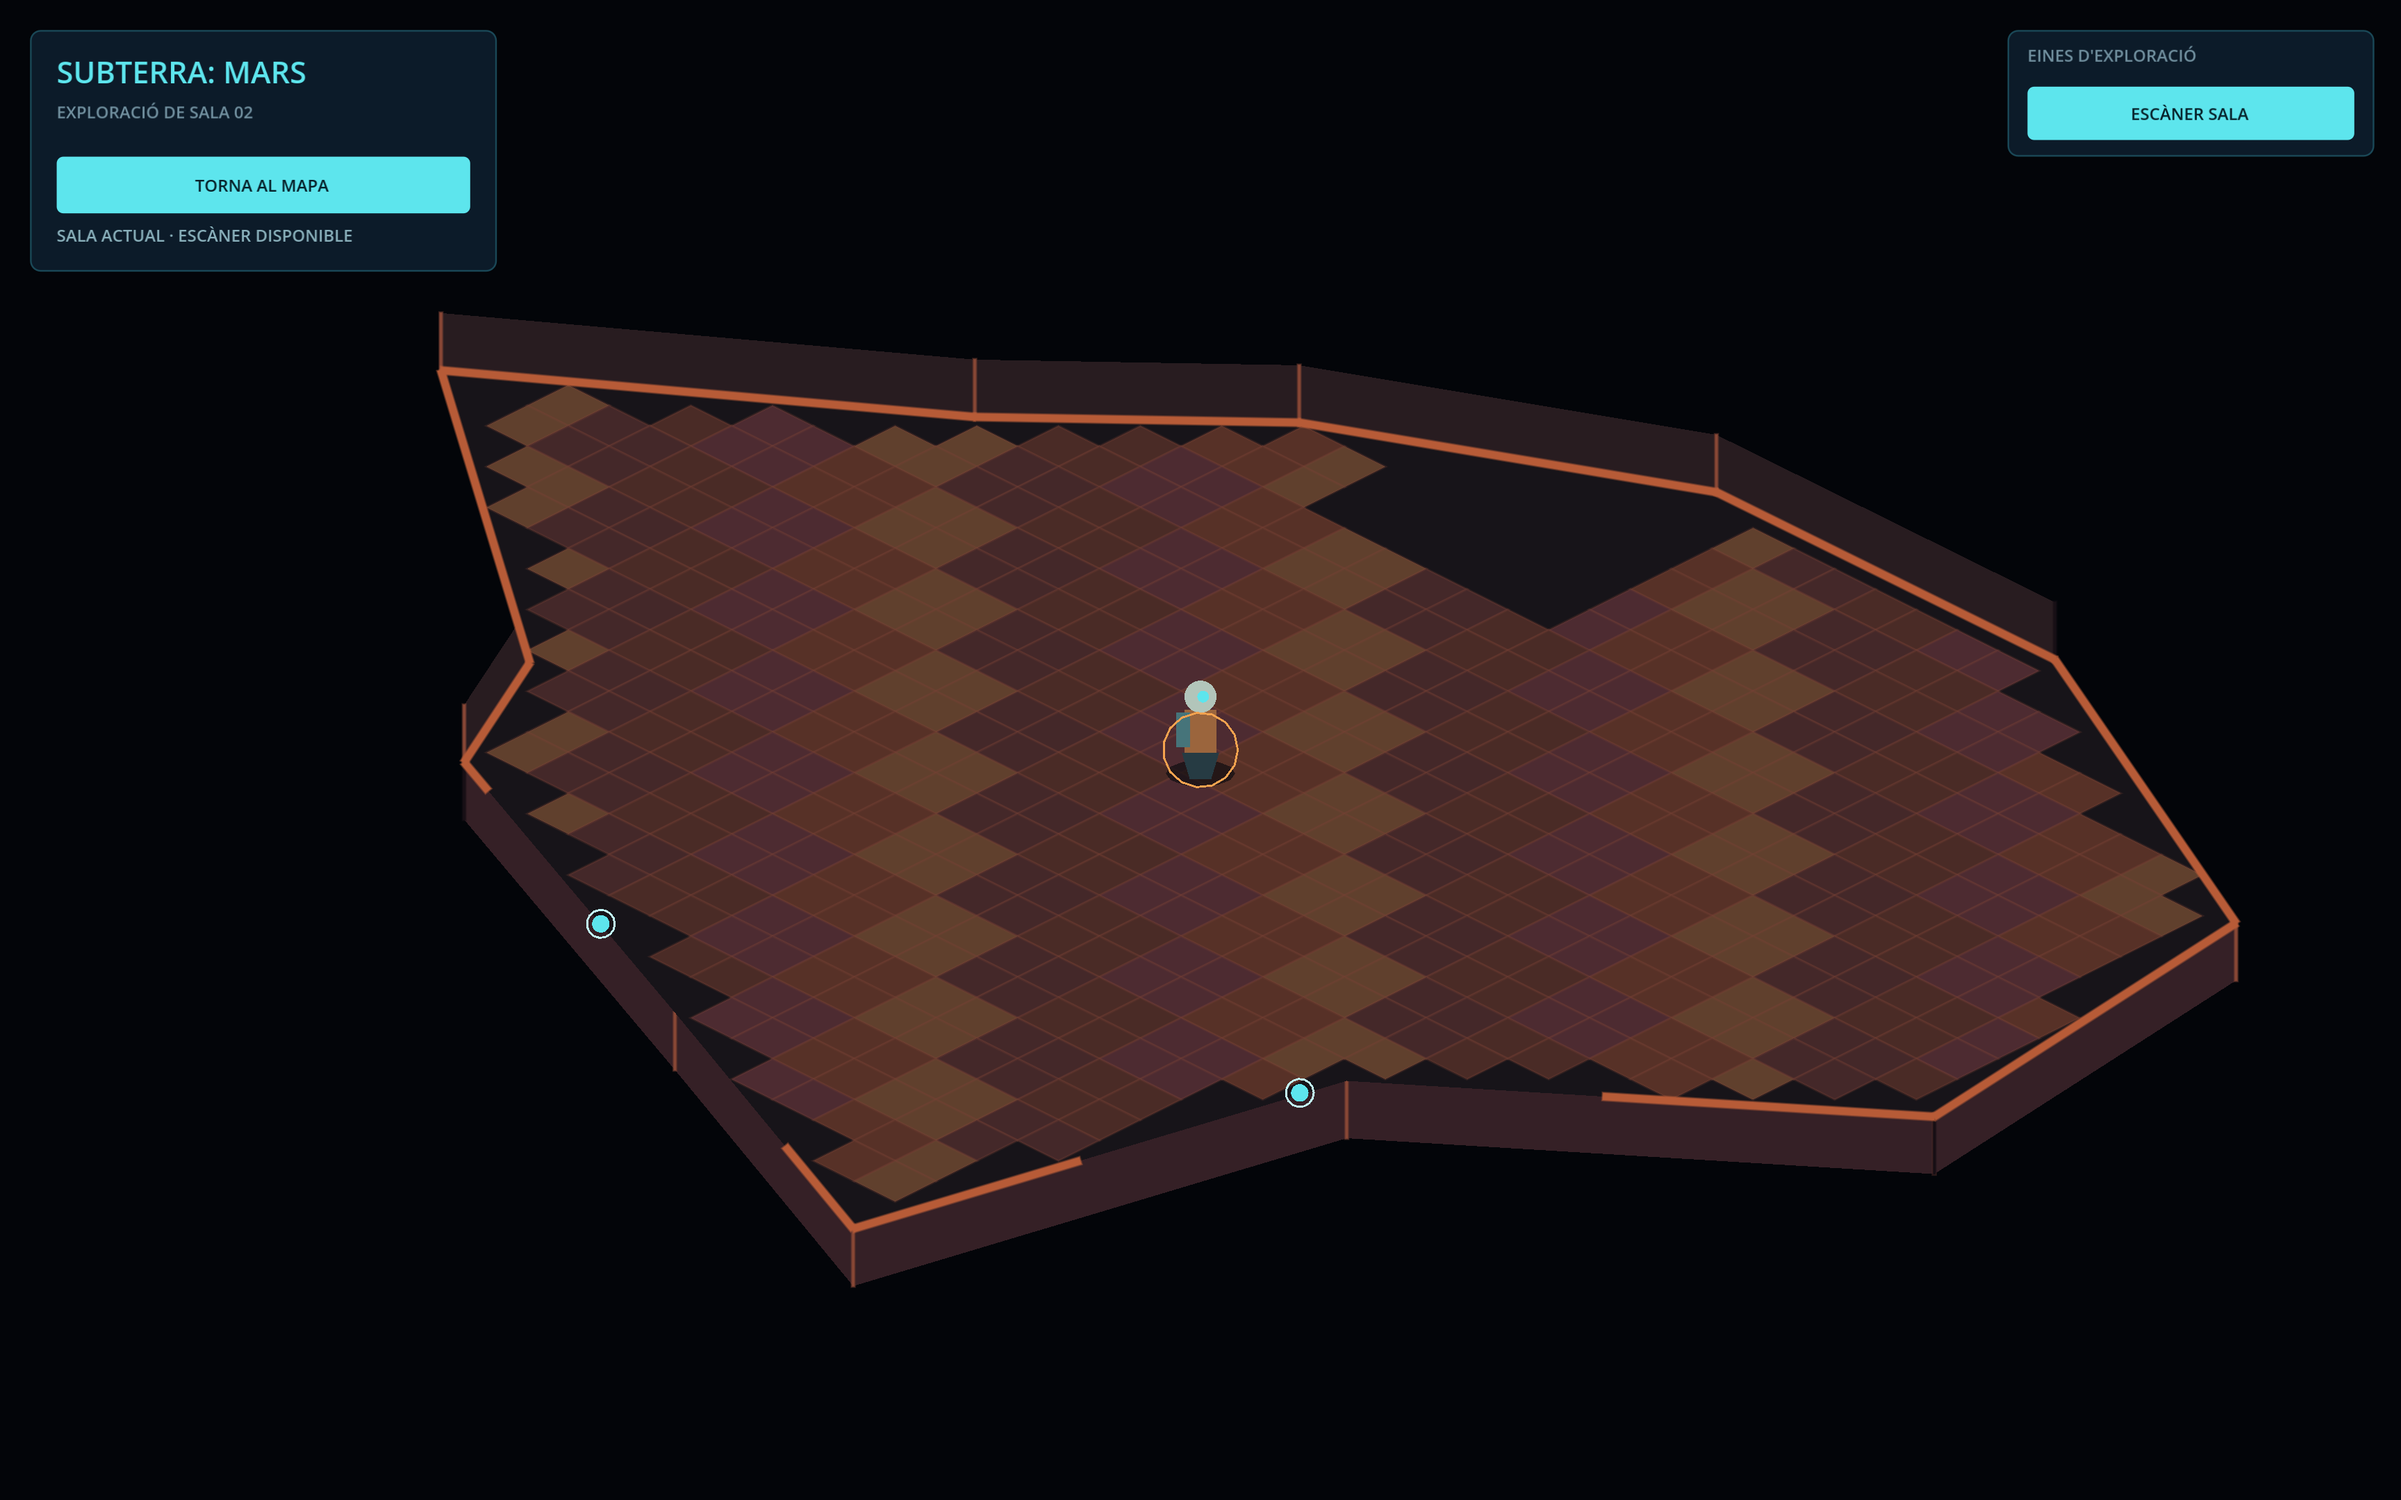
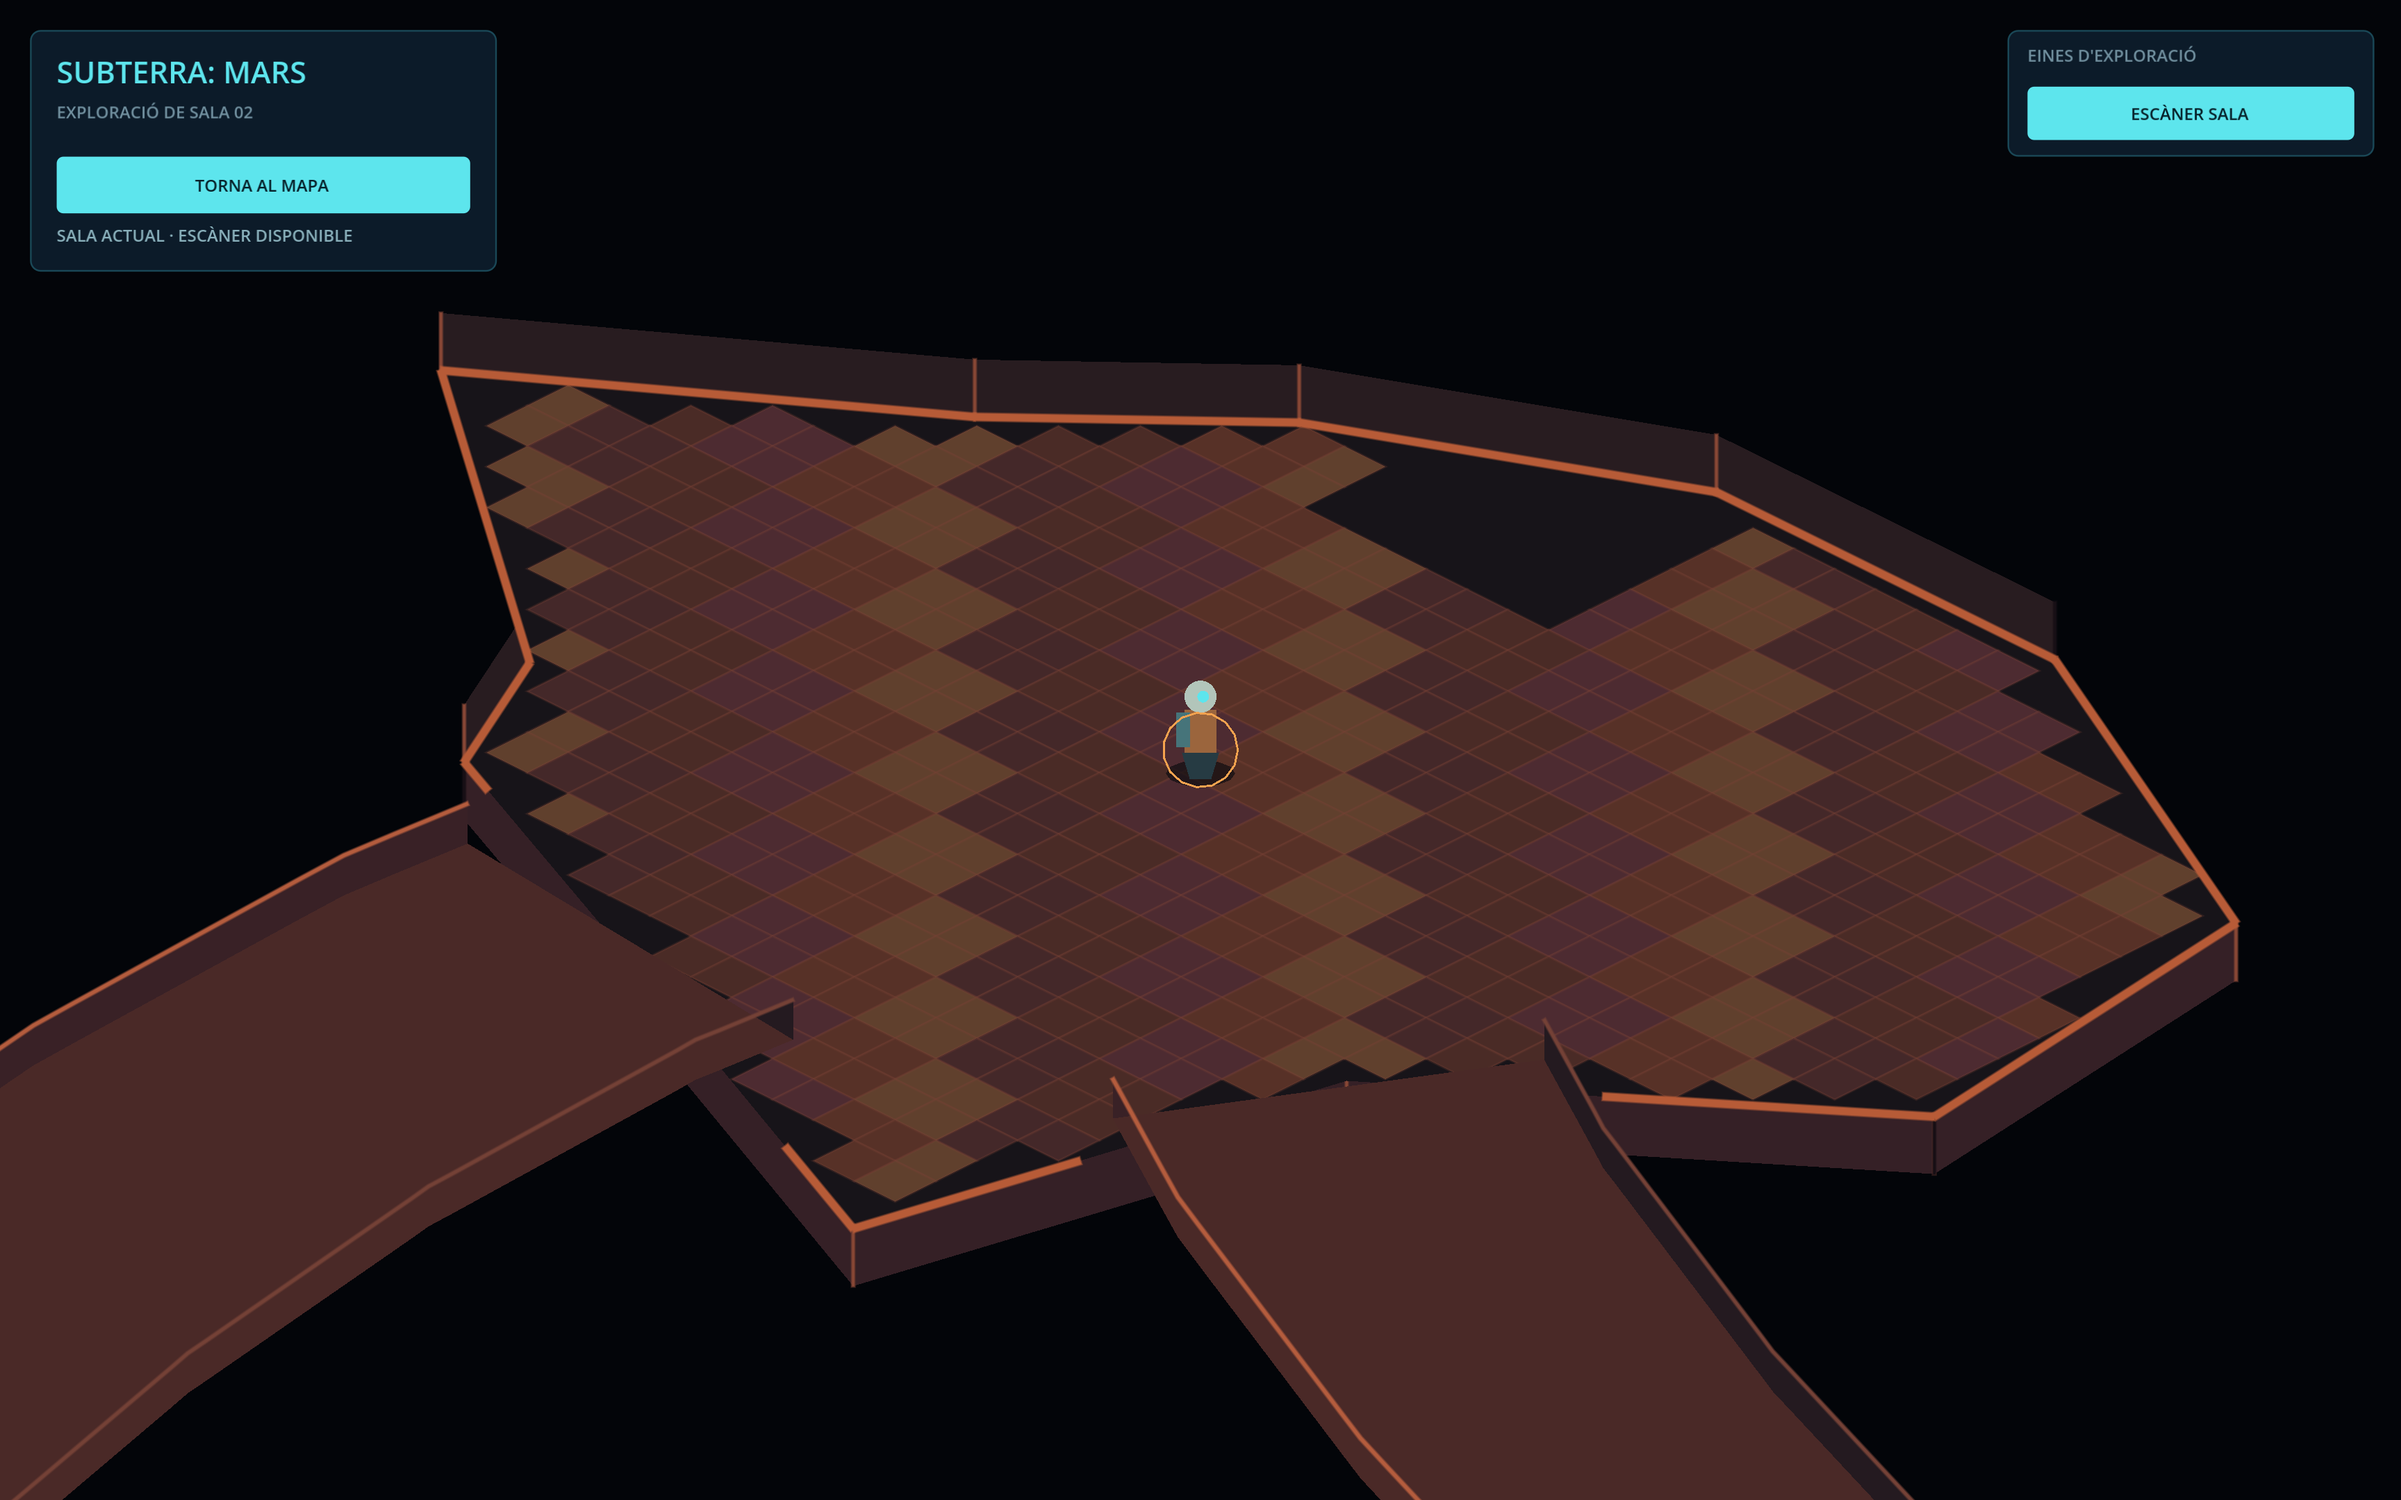
Representa les galeries en vista isomètrica

Changed region(s): [[0.0, 0.5273, 0.3438, 1.0], [0.4688, 0.6824, 0.8125, 1.0]]

diff --git a/docs/ESTAT_PROJECTE.md b/docs/ESTAT_PROJECTE.md
@@ -174,3 +174,7 @@ Albert ha aprovat les dues referències visuals com a format real: mapa de xarxa
 `main.gd` projecta contorn, terra revelat, parets, obstacles, sortides conegudes i explorador en isomètric. El renderer llegeix la mateixa geometria, màscara transitable, coordenades, estat i boira de guerra que el mapa superior. La conversió de pantalla a món és inversible i s'ha comprovat sobre centres i punts del contorn; canviar de vista no regenera ni mou la unitat. El terra i sprites són encara geometria provisional; flora, fauna, robot, llums i recursos com a entitats procedurals encara no estan implementats.
 
 Verificació: `seed_validation.gd` aprovat amb 51/51 llavors, inclosa la prova de projecció isomètrica d'anada/tornada. Captura del renderer amb OpenGL generada a `reports/mode_analisi_sala.png`; és una comprovació visual de prototip, no una sessió manual de joc. Següent pas: provar moviment amb clic dins la vista isomètrica i millorar parets, materials i contingut procedural de sala.
+
+## Sortides de sala isomètriques
+
+Les sortides descobertes ja no es dibuixen com a punts: es representen com galeries amb paviment i murs laterals, seguint la corba procedural original des de la boca de la sala. El renderitzat respecta la màscara revelada i s'atura al límit d'una sala veïna inexplorada. Verificació: `seed_validation.gd` aprovat amb 51/51 llavors; captura OpenGL actualitzada a `reports/mode_analisi_sala.png` i inspeccionada. No s'ha fet una sessió manual de moviment dins del joc.
